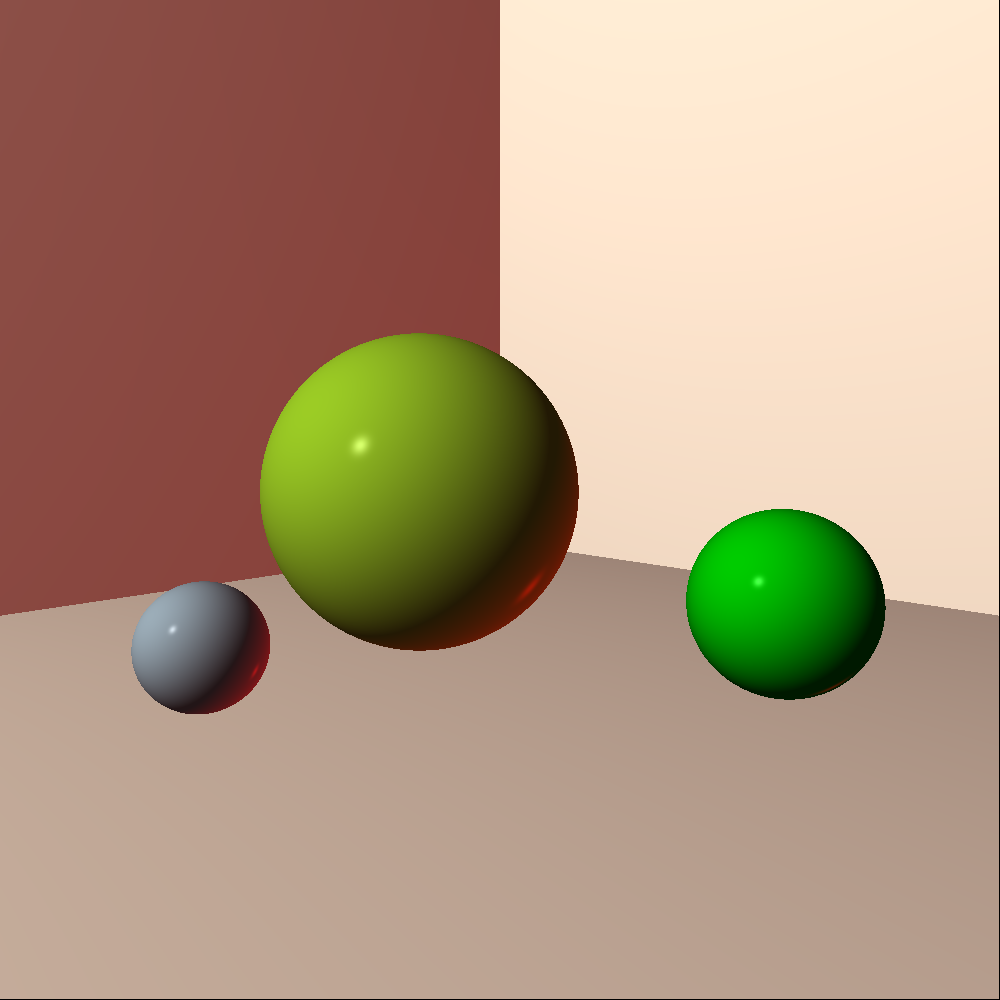
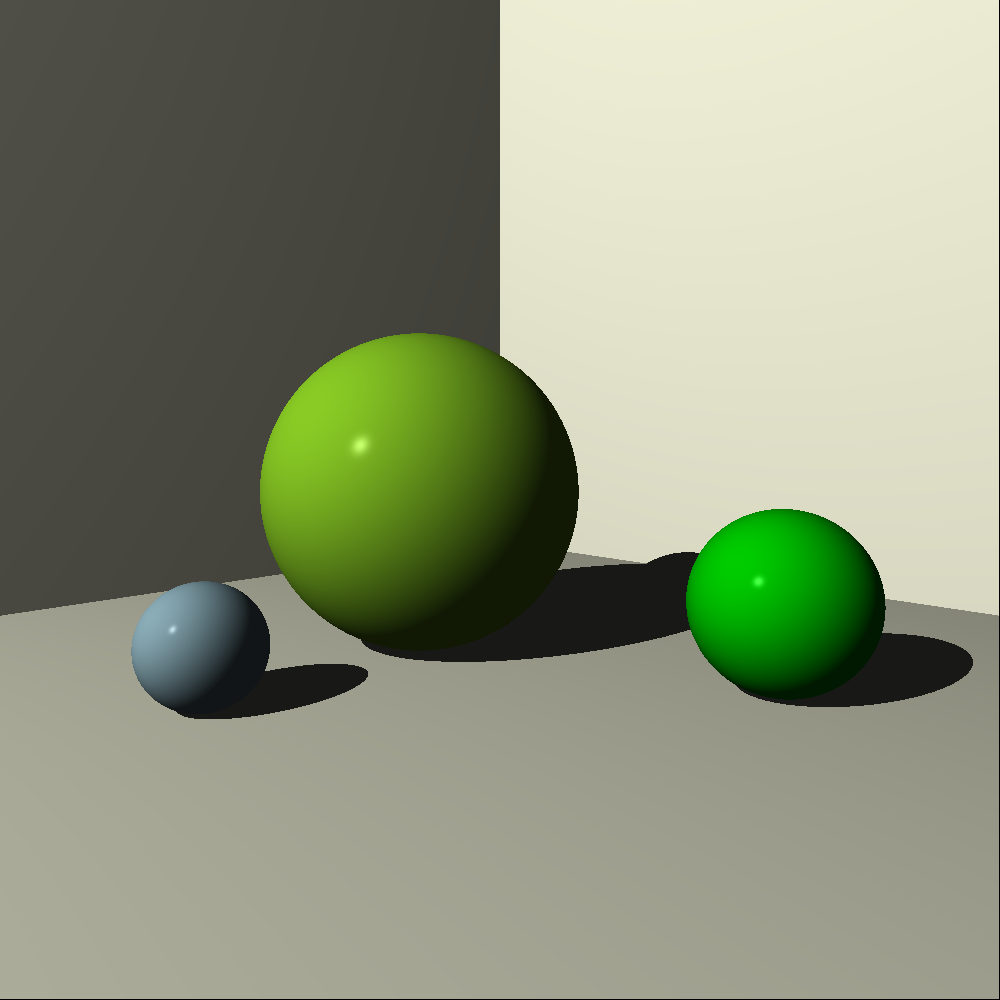
shadows

diff --git a/tracer/world_test.go b/tracer/world_test.go
@@ -4,6 +4,8 @@ import (
 	"math"
 	"testing"
 
+	"github.com/DanTulovsky/tracer/constants"
+
 	"github.com/stretchr/testify/assert"
 	"golang.org/x/image/colornames"
 )
@@ -128,6 +130,37 @@ func TestWorld_shadeHit(t *testing.T) {
 	}
 }
 
+func TestWorld_shadeHitShadow(t *testing.T) {
+	w := NewDefaultTestWorld()
+	w.SetLights([]Light{NewPointLight(NewPoint(0, 0, -10), ColorName(colornames.White))})
+
+	s1 := NewUnitSphere()
+	w.AddObject(s1)
+
+	s2 := NewUnitSphere()
+	s2.SetTransform(IdentityMatrix().Translate(0, 0, 10))
+	w.AddObject(s2)
+
+	r := NewRay(NewPoint(0, 0, 5), NewVector(0, 0, 1))
+	i := NewIntersection(s2, 4)
+
+	state := PrepareComputations(i, r)
+	c := w.shadeHit(state)
+	assert.Equal(t, NewColor(0.1, 0.1, 0.1), c, "should equal")
+}
+
+func TestWorld_shadeHitOffset(t *testing.T) {
+	r := NewRay(NewPoint(0, 0, -5), NewVector(0, 0, 1))
+	shape := NewUnitSphere()
+	shape.SetTransform(IdentityMatrix().Translate(0, 0, 1))
+	i := NewIntersection(shape, 5)
+
+	state := PrepareComputations(i, r)
+
+	assert.Less(t, state.OverPoint.Z(), -constants.Epsilon/2)
+	assert.Greater(t, state.Point.Z(), state.OverPoint.Z())
+}
+
 func TestWorld_ColorAt(t *testing.T) {
 	type args struct {
 		r Ray
@@ -206,6 +239,57 @@ func TestWorld_Render(t *testing.T) {
 			}
 			assert.True(t, NewColor(0.38066, 0.47583, 0.2855).Equal(got), "should equal")
 
+		})
+	}
+}
+
+func TestWorld_IsShadowed(t *testing.T) {
+	type args struct {
+		p Point
+	}
+	tests := []struct {
+		name  string
+		world *World
+		args  args
+		want  bool
+	}{
+		{
+			name:  "nothing collinear with point and light; no shadow",
+			world: NewDefaultTestWorld(),
+			args: args{
+				p: NewPoint(0, 10, 0),
+			},
+			want: false,
+		},
+		{
+			name:  "object between point and light; shadow",
+			world: NewDefaultTestWorld(),
+			args: args{
+				p: NewPoint(10, -10, 10),
+			},
+			want: true,
+		},
+		{
+			name:  "object is behind light; no shadow",
+			world: NewDefaultTestWorld(),
+			args: args{
+				p: NewPoint(-20, 20, -20),
+			},
+			want: false,
+		},
+		{
+			name:  "object is behind the point; no shadow",
+			world: NewDefaultTestWorld(),
+			args: args{
+				p: NewPoint(-2, 2, -2),
+			},
+			want: false,
+		},
+	}
+	for _, tt := range tests {
+		t.Run(tt.name, func(t *testing.T) {
+			// default world has only one light
+			assert.Equal(t, tt.want, tt.world.IsShadowed(tt.args.p, tt.world.Lights[0]))
 		})
 	}
 }

diff --git a/tracer/light_test.go b/tracer/light_test.go
@@ -39,11 +39,12 @@ func TestNewPointLight(t *testing.T) {
 
 func Test_lighting(t *testing.T) {
 	type args struct {
-		m      *Material
-		p      Point
-		l      PointLight
-		eye    Vector
-		normal Vector
+		m        *Material
+		p        Point
+		l        PointLight
+		eye      Vector
+		normal   Vector
+		inShadow bool
 	}
 	tests := []struct {
 		name string
@@ -60,6 +61,18 @@ func Test_lighting(t *testing.T) {
 				normal: NewVector(0, 0, -1),
 			},
 			want: NewColor(1.9, 1.9, 1.9),
+		},
+		{
+			name: "surface in shadow",
+			args: args{
+				m:        NewDefaultMaterial(),
+				p:        NewPoint(0, 0, 0),
+				l:        NewPointLight(NewPoint(0, 0, -10), ColorName(colornames.White)),
+				eye:      NewVector(0, 0, -1),
+				normal:   NewVector(0, 0, -1),
+				inShadow: true,
+			},
+			want: NewColor(0.1, 0.1, 0.1),
 		},
 		{
 			name: "eye between light and surface, eye offset 45 degrees",
@@ -108,18 +121,19 @@ func Test_lighting(t *testing.T) {
 	}
 	for _, tt := range tests {
 		t.Run(tt.name, func(t *testing.T) {
-			assert.True(t, tt.want.Equal(lighting(tt.args.m, tt.args.p, tt.args.l, tt.args.eye, tt.args.normal)))
+			assert.True(t, tt.want.Equal(lighting(tt.args.m, tt.args.p, tt.args.l, tt.args.eye, tt.args.normal, tt.args.inShadow)))
 		})
 	}
 }
 
 func TestColorAtPoint(t *testing.T) {
 	type args struct {
-		m      *Material
-		p      Point
-		l      PointLight
-		eye    Vector
-		normal Vector
+		m        *Material
+		p        Point
+		l        PointLight
+		eye      Vector
+		normal   Vector
+		inShadow bool
 	}
 	tests := []struct {
 		name string
@@ -184,7 +198,7 @@ func TestColorAtPoint(t *testing.T) {
 	}
 	for _, tt := range tests {
 		t.Run(tt.name, func(t *testing.T) {
-			assert.True(t, tt.want.Equal(ColorAtPoint(tt.args.m, tt.args.p, tt.args.l, tt.args.eye, tt.args.normal)))
+			assert.True(t, tt.want.Equal(ColorAtPoint(tt.args.m, tt.args.p, tt.args.l, tt.args.eye, tt.args.normal, tt.args.inShadow)))
 		})
 	}
 }

diff --git a/tracer/intersect_test.go b/tracer/intersect_test.go
@@ -110,12 +110,13 @@ func TestPrepareComputations(t *testing.T) {
 				r: NewRay(NewPoint(0, 0, -5), NewVector(0, 0, 1)),
 			},
 			want: IntersectionState{
-				T:       4,
-				Object:  NewUnitSphere(),
-				Point:   NewPoint(0, 0, -1),
-				EyeV:    NewVector(0, 0, -1),
-				NormalV: NewVector(0, 0, -1),
-				Inside:  false,
+				T:         4,
+				Object:    NewUnitSphere(),
+				Point:     NewPoint(0, 0, -1),
+				EyeV:      NewVector(0, 0, -1),
+				NormalV:   NewVector(0, 0, -1),
+				Inside:    false,
+				OverPoint: NewPoint(0, 0, -1.00001),
 			},
 		},
 		{
@@ -125,12 +126,13 @@ func TestPrepareComputations(t *testing.T) {
 				r: NewRay(NewPoint(0, 0, -5), NewVector(0, 0, 1)),
 			},
 			want: IntersectionState{
-				T:       4,
-				Object:  NewUnitSphere(),
-				Point:   NewPoint(0, 0, -1),
-				EyeV:    NewVector(0, 0, -1),
-				NormalV: NewVector(0, 0, -1),
-				Inside:  false,
+				T:         4,
+				Object:    NewUnitSphere(),
+				Point:     NewPoint(0, 0, -1),
+				EyeV:      NewVector(0, 0, -1),
+				NormalV:   NewVector(0, 0, -1),
+				Inside:    false,
+				OverPoint: NewPoint(0, 0, -1.00001),
 			},
 		},
 		{
@@ -140,12 +142,13 @@ func TestPrepareComputations(t *testing.T) {
 				r: NewRay(NewPoint(0, 0, 0), NewVector(0, 0, 1)),
 			},
 			want: IntersectionState{
-				T:       1,
-				Object:  NewUnitSphere(),
-				Point:   NewPoint(0, 0, 1),
-				EyeV:    NewVector(0, 0, -1),
-				NormalV: NewVector(0, 0, -1),
-				Inside:  true,
+				T:         1,
+				Object:    NewUnitSphere(),
+				Point:     NewPoint(0, 0, 1),
+				EyeV:      NewVector(0, 0, -1),
+				NormalV:   NewVector(0, 0, -1),
+				Inside:    true,
+				OverPoint: NewPoint(0, 0, 0.99999),
 			},
 		},
 	}

diff --git a/tracer/intersect.go b/tracer/intersect.go
@@ -3,6 +3,8 @@ package tracer
 import (
 	"fmt"
 	"sort"
+
+	"github.com/DanTulovsky/tracer/constants"
 )
 
 // Intersection encapsulates an intersection t value an an object
@@ -64,12 +66,13 @@ func (a byT) Less(i, j int) bool { return a[i].t < a[j].t }
 
 // IntersectionState holds precomputed values for an intersection
 type IntersectionState struct {
-	T       float64 // How far away from Ray origin did this occur?
-	Object  Object  // The object we intersected
-	Point   Point
-	EyeV    Vector
-	NormalV Vector
-	Inside  bool // did the hit occure inside or outside the shape?
+	T         float64 // How far away from Ray origin did this occur?
+	Object    Object  // The object we intersected
+	Point     Point
+	EyeV      Vector
+	NormalV   Vector
+	Inside    bool // did the hit occure inside or outside the shape?
+	OverPoint Point
 }
 
 // PrepareComputations prepopulates the IntersectionState structure
@@ -86,12 +89,15 @@ func PrepareComputations(i Intersection, r Ray) IntersectionState {
 		normalv = normalv.Negate()
 	}
 
+	overPoint := point.AddVector(normalv.Scale(constants.Epsilon))
+
 	return IntersectionState{
-		T:       i.T(),
-		Object:  object,
-		Point:   point,
-		EyeV:    eyev,
-		NormalV: normalv,
-		Inside:  inside,
+		T:         i.T(),
+		Object:    object,
+		Point:     point,
+		EyeV:      eyev,
+		NormalV:   normalv,
+		Inside:    inside,
+		OverPoint: overPoint,
 	}
 }

diff --git a/tracer/light.go b/tracer/light.go
@@ -34,7 +34,7 @@ func (pl PointLight) Position() Point {
 }
 
 // lighting returns the color for a given point
-func lighting(m *Material, p Point, l Light, eye, normal Vector) Color {
+func lighting(m *Material, p Point, l Light, eye, normal Vector, inShadow bool) Color {
 	var ambient, diffuse, specular Color
 
 	// combine surface color with light's color/intensity
@@ -71,10 +71,15 @@ func lighting(m *Material, p Point, l Light, eye, normal Vector) Color {
 		}
 	}
 
+	// light not visible, ignore diffuse ans specular components
+	if inShadow {
+		return ambient
+	}
+
 	return ambient.Add(diffuse).Add(specular)
 }
 
 // ColorAtPoint returns the clamped color at the givn point
-func ColorAtPoint(m *Material, p Point, l PointLight, eye, normal Vector) Color {
-	return lighting(m, p, l, eye, normal).Clamp()
+func ColorAtPoint(m *Material, p Point, l PointLight, eye, normal Vector, inShadow bool) Color {
+	return lighting(m, p, l, eye, normal, inShadow).Clamp()
 }

diff --git a/tracer/world.go b/tracer/world.go
@@ -74,12 +74,14 @@ func (w *World) shadeHit(state IntersectionState) Color {
 	var result Color
 
 	for _, l := range w.Lights {
+		isShadowed := w.IsShadowed(state.OverPoint, l)
 		c := lighting(
 			state.Object.Material(),
-			state.Point,
+			state.OverPoint,
 			l,
 			state.EyeV,
-			state.NormalV)
+			state.NormalV,
+			isShadowed)
 
 		result = result.Add(c)
 	}
@@ -117,6 +119,25 @@ func (w *World) ColorAt(r Ray) Color {
 
 	state := PrepareComputations(hit, r)
 	return w.shadeHit(state).Clamp()
+}
+
+// IsShadowed returns true if p is in a shadow
+func (w *World) IsShadowed(p Point, l Light) bool {
+	var inShadow bool
+
+	v := l.Position().SubPoint(p)
+	distance := v.Magnitude()
+	direction := v.Normalize()
+
+	r := NewRay(p, direction)
+	intersections := w.Intersections(r)
+
+	h, err := intersections.Hit()
+	if err == nil && h.T() < distance {
+		inShadow = true
+	}
+
+	return inShadow
 }
 
 // Render renders the world using the world camera

diff --git a/main.go b/main.go
@@ -248,7 +248,7 @@ func sphere() {
 				if hit, err := shape.IntersectWith(ray).Hit(); err == nil {
 
 					comp := tracer.PrepareComputations(hit, ray)
-					clr := tracer.ColorAtPoint(comp.Object.Material(), comp.Point, light, comp.EyeV, comp.NormalV)
+					clr := tracer.ColorAtPoint(comp.Object.Material(), comp.Point, light, comp.EyeV, comp.NormalV, false)
 
 					c.SetFloat(x, y, clr)
 				}
@@ -272,8 +272,8 @@ func sphere() {
 
 func scene() {
 
-	width, height := 300.0, 300.0
-	// width, height := 1000.0, 1000.0
+	// width, height := 300.0, 300.0
+	width, height := 1000.0, 1000.0
 
 	// setup world, default light and camera
 	w := tracer.NewDefaultWorld(width, height)
